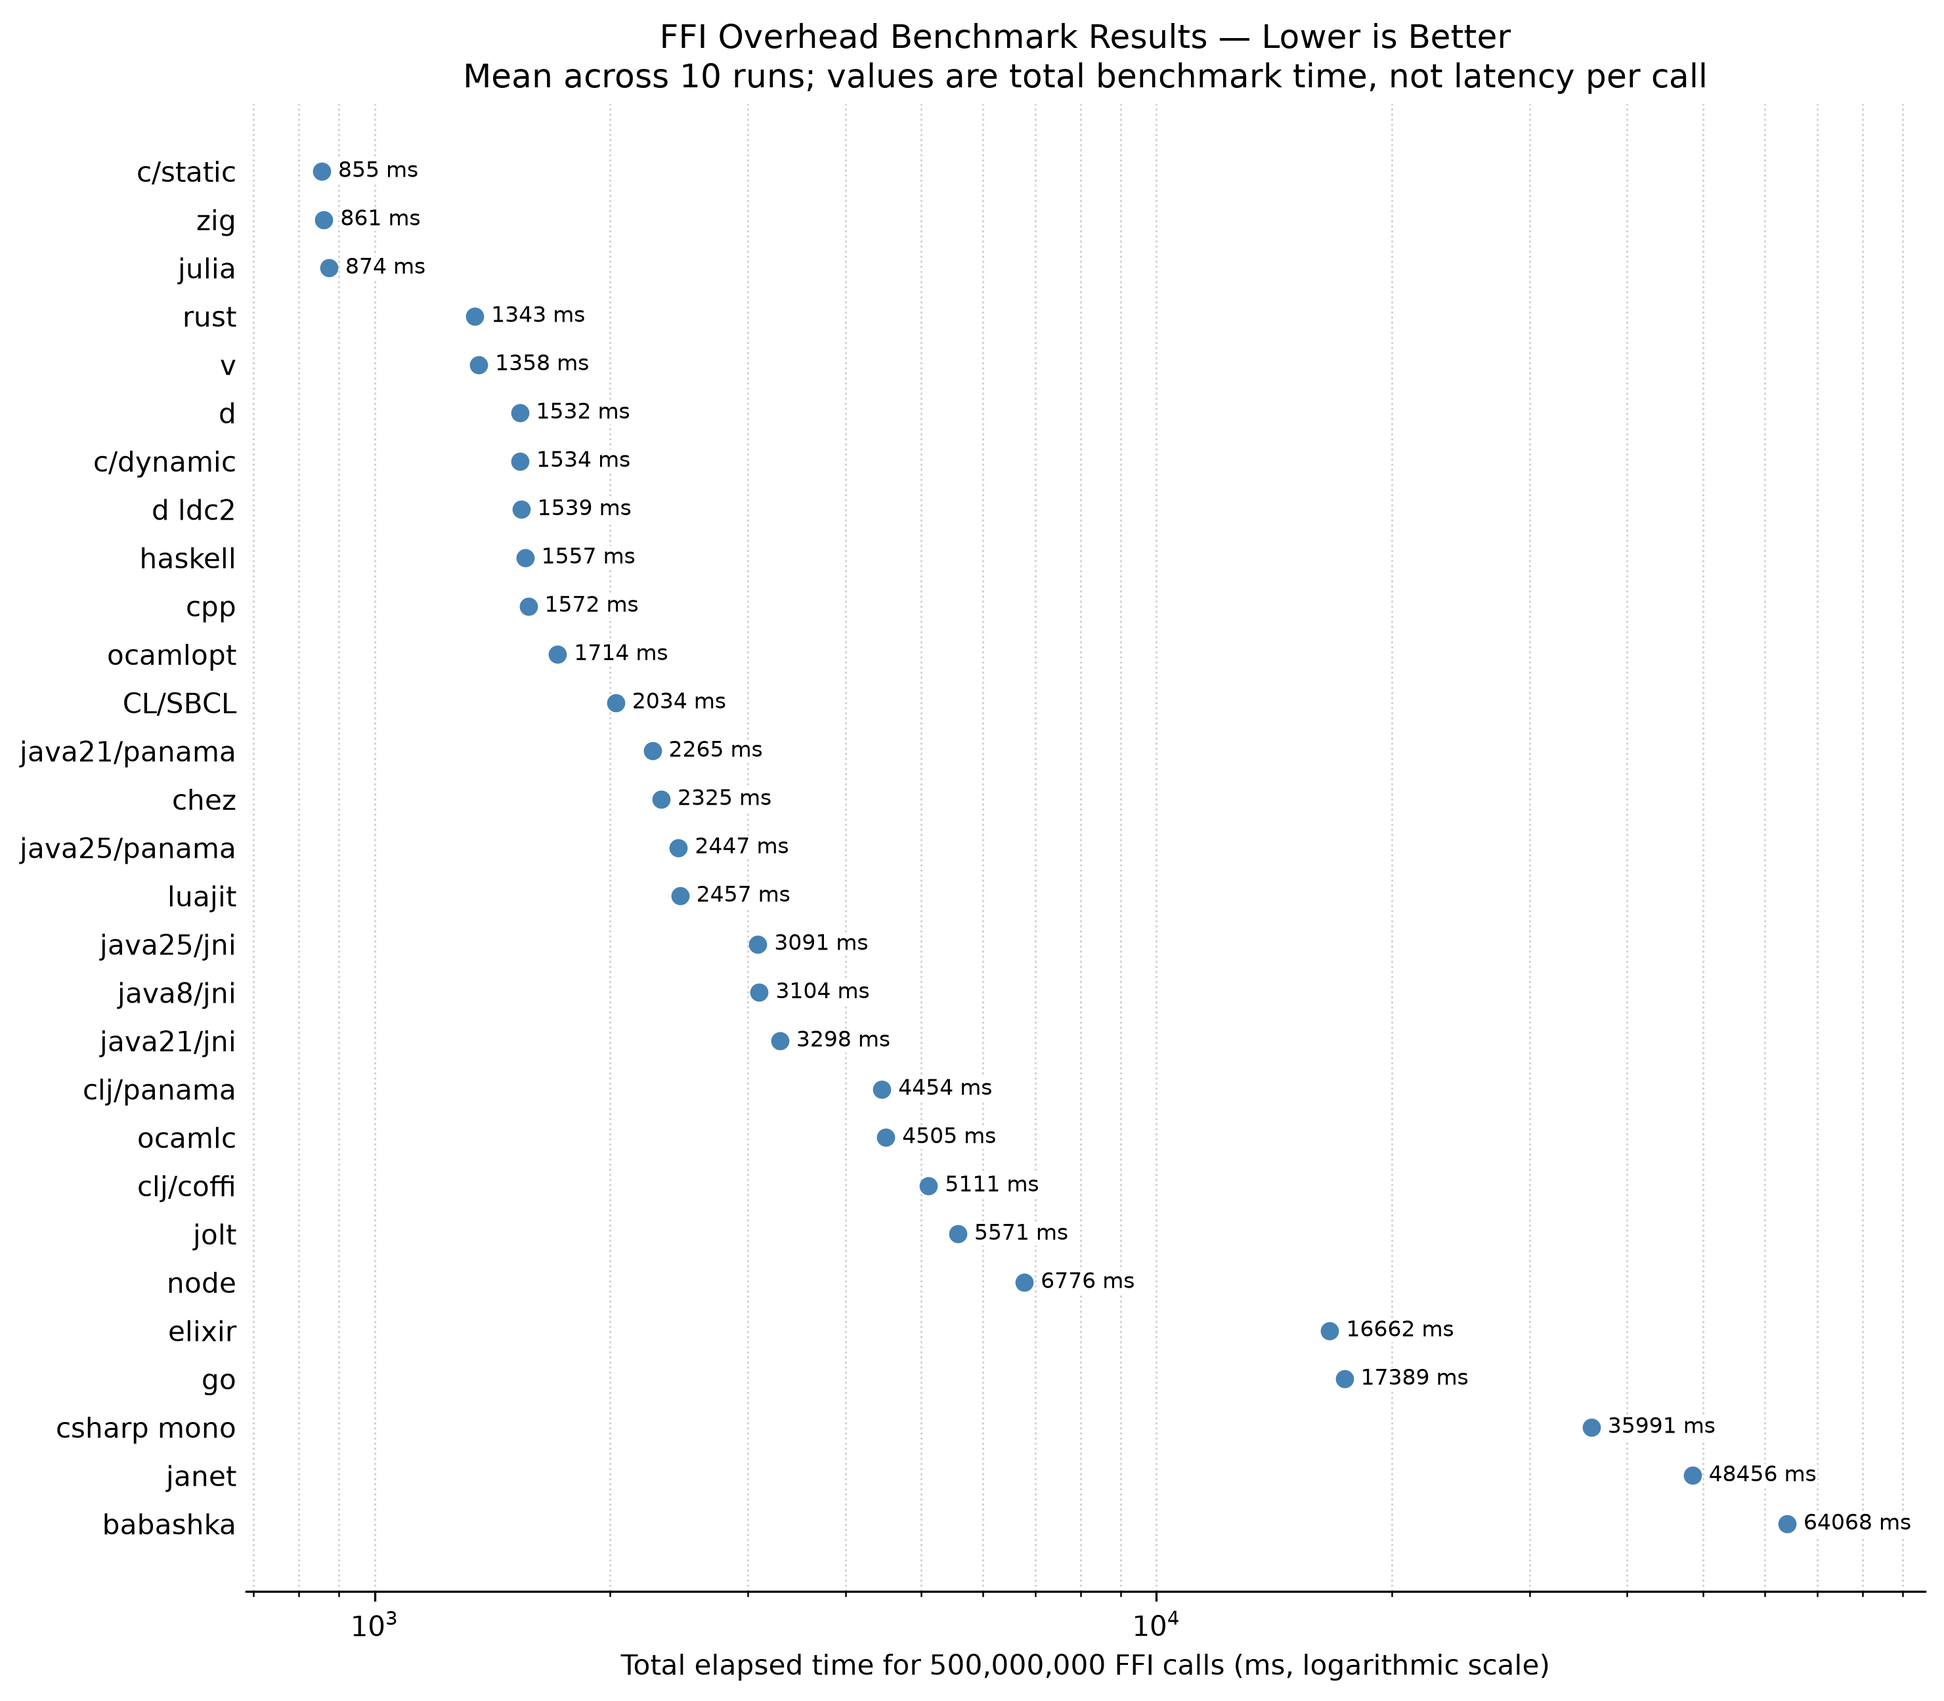
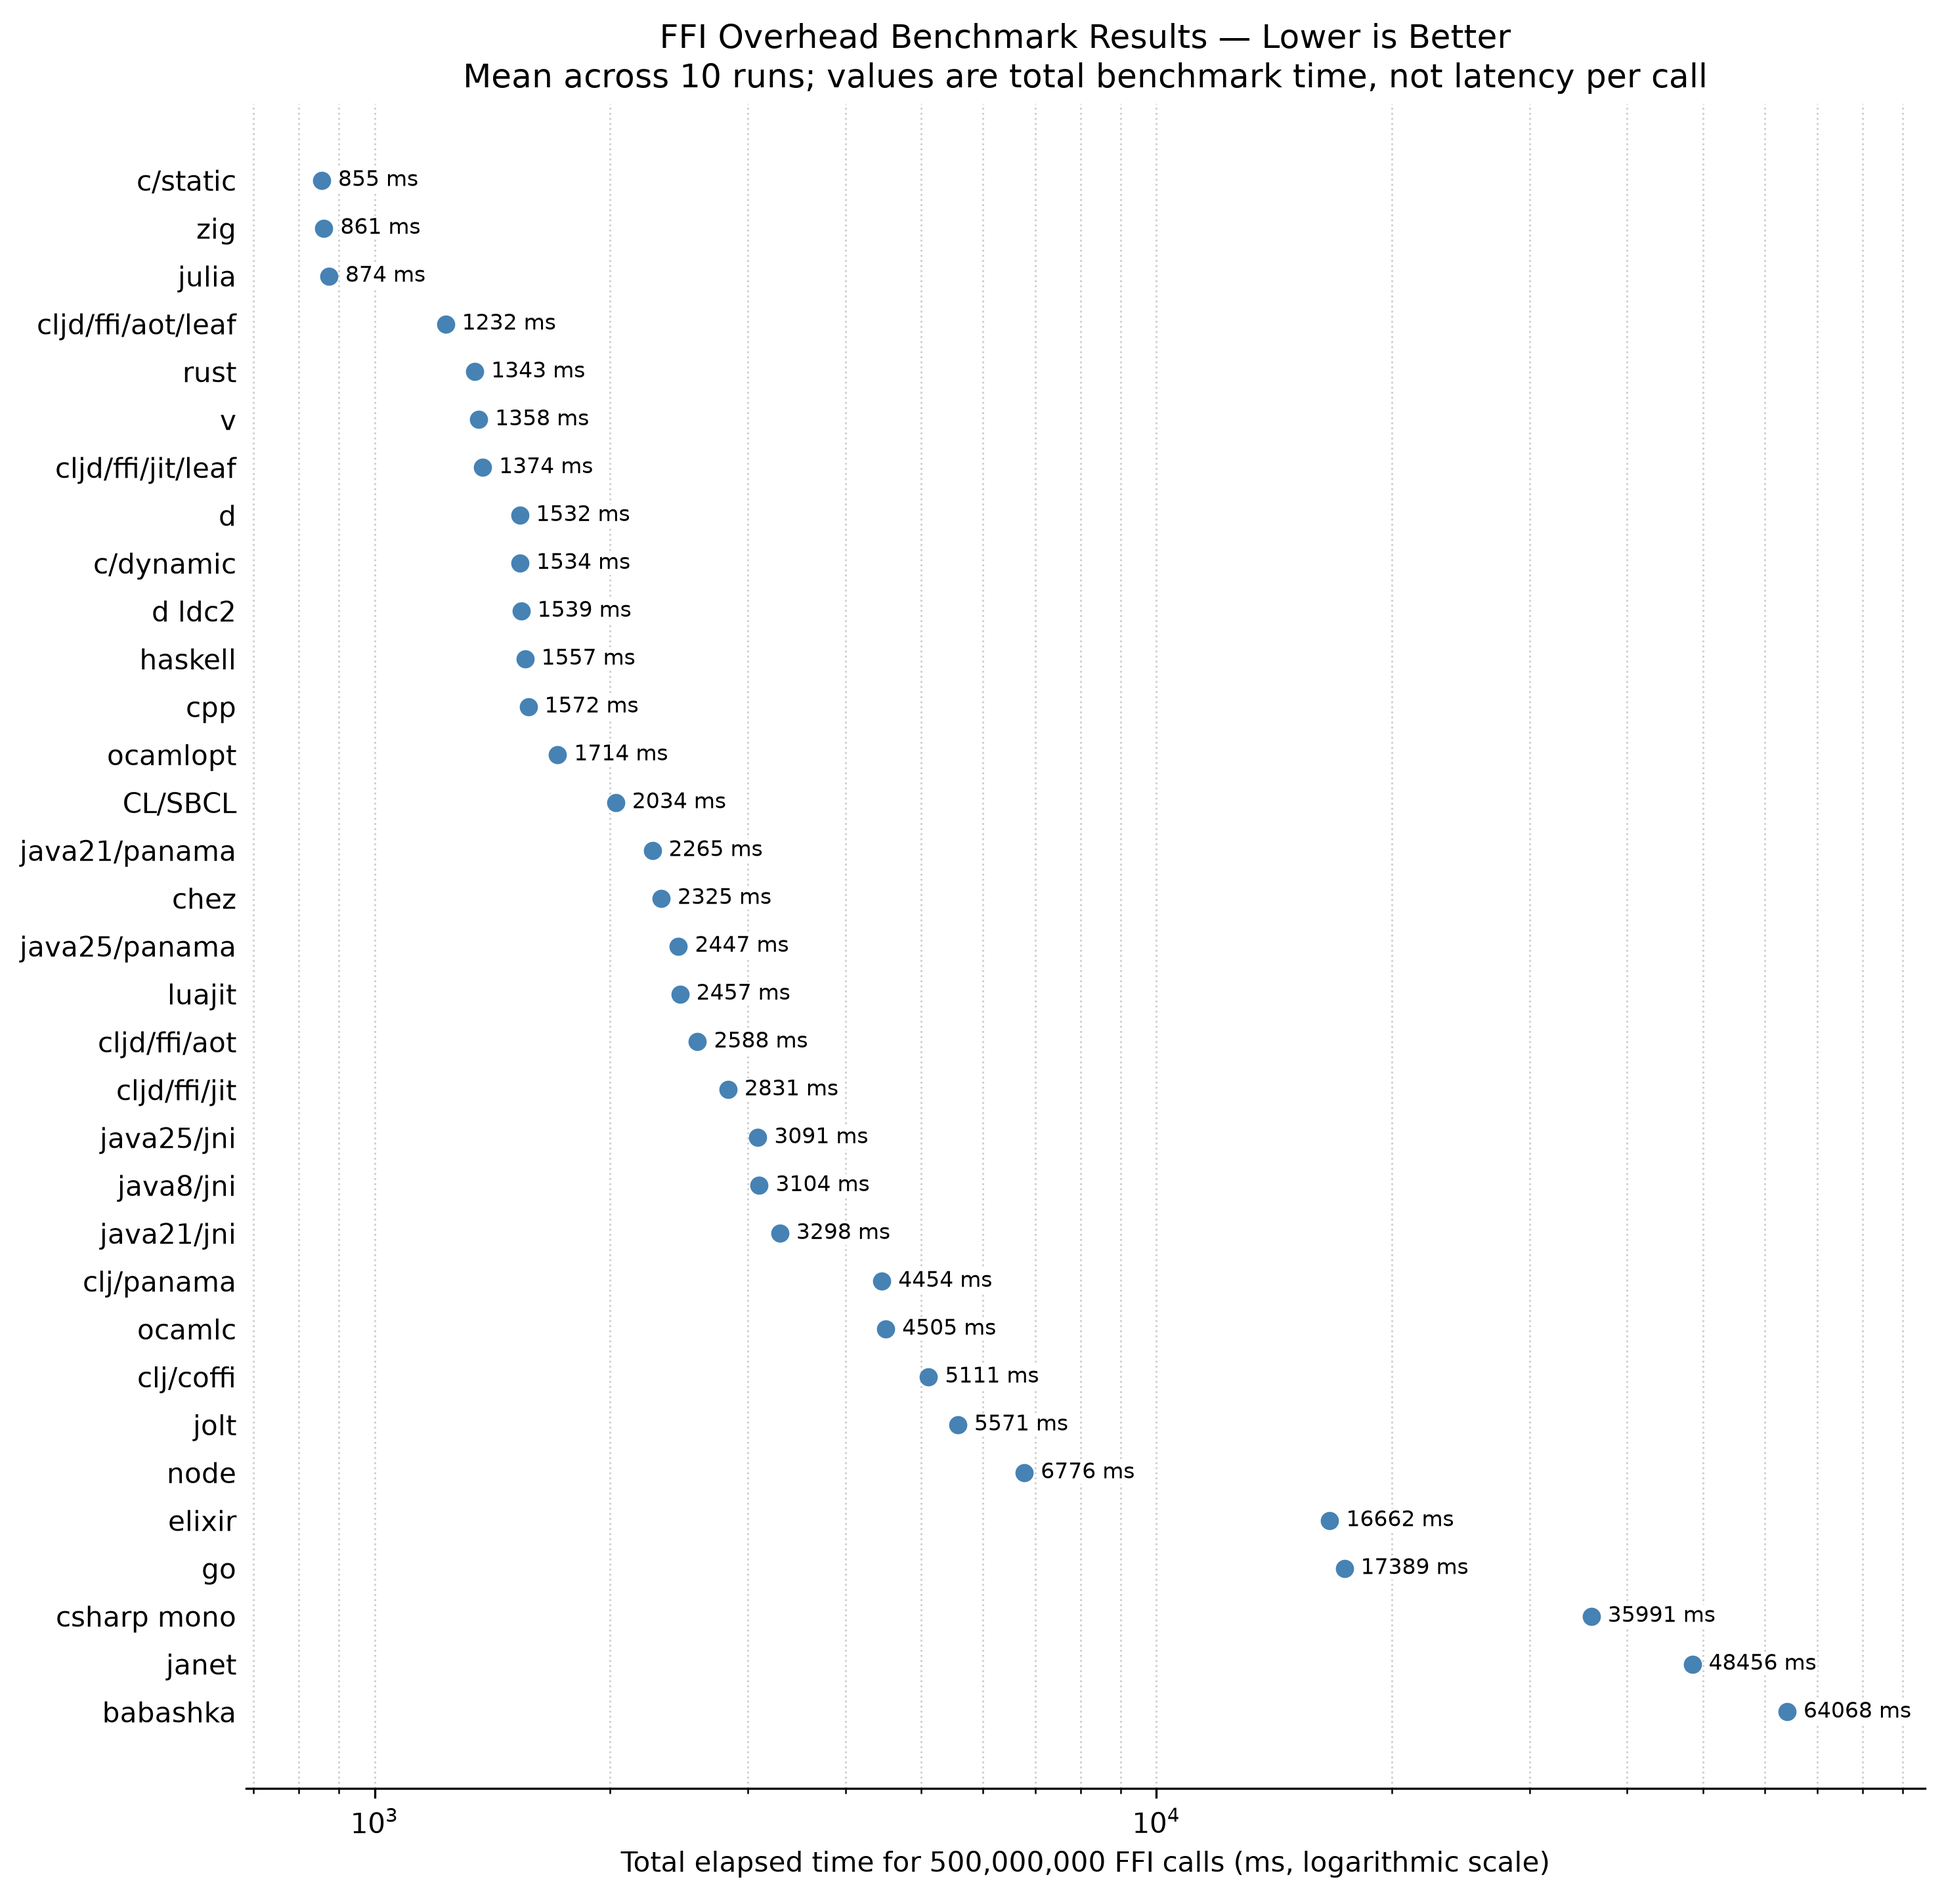
bench: publish ClojureDart FFI results

diff --git a/README.md b/README.md
@@ -19,8 +19,10 @@ comparing the c ffi overhead on various programming languages
 | c/static | 855 ms | 841 ms | 896 ms | 2.3% | 1.00x (baseline) |
 | zig | 861 ms | 844 ms | 911 ms | 2.4% | 1.01x slower |
 | julia | 874 ms | 847 ms | 902 ms | 2.2% | 1.02x slower |
+| cljd/ffi/aot/leaf | 1232 ms | 1213 ms | 1258 ms | 1.2% | 1.44x slower |
 | rust | 1343 ms | 1333 ms | 1373 ms | 0.8% | 1.57x slower |
 | v | 1358 ms | 1341 ms | 1377 ms | 0.7% | 1.59x slower |
+| cljd/ffi/jit/leaf | 1374 ms | 1348 ms | 1396 ms | 1.2% | 1.61x slower |
 | d | 1532 ms | 1509 ms | 1576 ms | 1.4% | 1.79x slower |
 | c/dynamic | 1534 ms | 1517 ms | 1568 ms | 1.1% | 1.79x slower |
 | d ldc2 | 1539 ms | 1510 ms | 1562 ms | 1.1% | 1.80x slower |
@@ -32,6 +34,8 @@ comparing the c ffi overhead on various programming languages
 | chez | 2325 ms | 2257 ms | 2410 ms | 2.0% | 2.72x slower |
 | java25/panama | 2447 ms | 2344 ms | 2904 ms | 6.7% | 2.86x slower |
 | luajit | 2457 ms | 2442 ms | 2482 ms | 0.5% | 2.87x slower |
+| cljd/ffi/aot | 2588 ms | 2564 ms | 2610 ms | 0.7% | 3.03x slower |
+| cljd/ffi/jit | 2831 ms | 2771 ms | 2903 ms | 1.6% | 3.31x slower |
 | java25/jni | 3091 ms | 3043 ms | 3150 ms | 1.1% | 3.61x slower |
 | java8/jni | 3104 ms | 3038 ms | 3292 ms | 2.5% | 3.63x slower |
 | java21/jni | 3298 ms | 3218 ms | 3394 ms | 1.8% | 3.86x slower |
@@ -46,7 +50,9 @@ comparing the c ffi overhead on various programming languages
 | janet | 48456 ms | 47429 ms | 49488 ms | 1.3% | 56.65x slower |
 | babashka | 64068 ms | 63115 ms | 65191 ms | 1.1% | 74.90x slower |
 
-Ran on an AMD EPYC CPU.
+The original results were run on an AMD EPYC CPU. The four `cljd/ffi/*` rows
+were run separately on an AMD Ryzen 9 7950X3D; their comparisons with the EPYC
+baseline are indicative only.
 
 Raw data: [data/2026-08/data.csv](./data/2026-08/data.csv)
 
@@ -75,9 +81,7 @@ nix develop --command -- python3 bench.py \
   --count 500000000
 ```
 
-The published results above predate the Dart and ClojureDart ports to
-`dart:ffi`. Wren and Nim remain excluded due to toolchain/skill issues on my
-part.
+Wren and Nim remain excluded due to toolchain/skill issues on my part.
 
 # Usage
 
